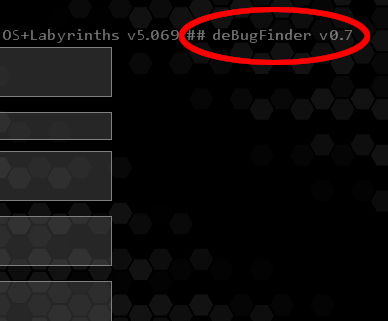
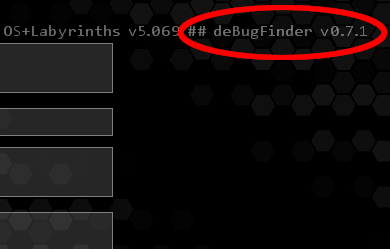
Bump version

Changed region(s): [[0.0, 0.0, 1.0, 1.0]]

diff --git a/DeBugFinder/DeBugFinderHooks.cs b/DeBugFinder/DeBugFinderHooks.cs
@@ -27,7 +27,7 @@ namespace DeBugFinder {
 	/// </summary>
 	/// Place all functions to be hooked into Hacknet here
 	public static class DeBugFinderHooks {
-		public const string TitleScreenTag = "deBugFinder v0.7";
+		public const string TitleScreenTag = "deBugFinder v0.7.1";
 
 		[Patch(typeof(Utils), "AppendToErrorFile", flags: InjectFlags.PassParametersVal)]
 		internal static void onDebugHook_appendToErrorFile(string text) {
